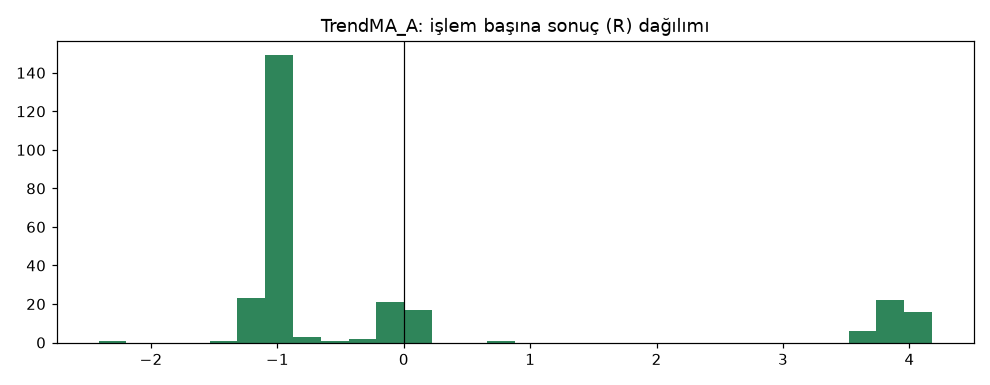
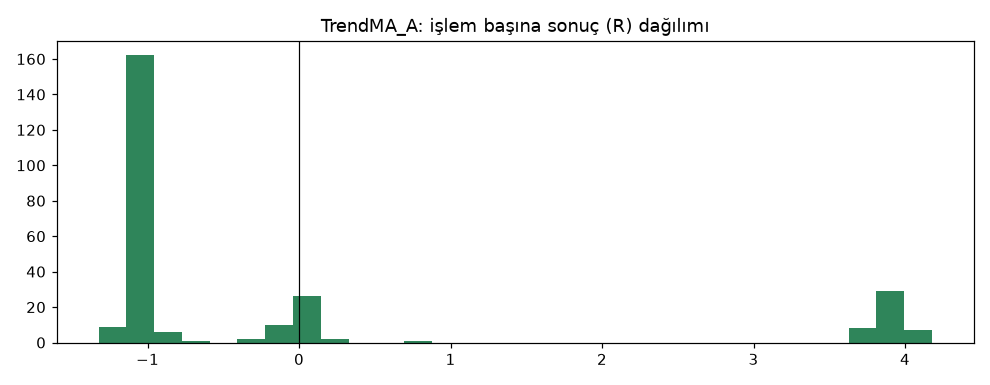
Add donchian_breakout strategy and first A vs B backtest; fix Model A stop
- New card + strategy (20-candle Donchian breakout, 4h, long+short),
  parameters fixed before testing. Lookahead/recursive clean.
- First backtest on development data: B +0.09R/trade, PF 1.10, DD 38%;
  A +0.06R, PF 1.04, DD 42%. Cost x2 still positive for B. Continue to
  TP grid; drawdown above threshold noted.
- Fix custom_stoploss for Model A: max_rate/min_rate is None on the first
  call after the entry fill, which raised and skipped the planned stop for
  that candle. trend_ma report regenerated (decision unchanged).

Claude-Session: https://claude.ai/code/session_01Kuq8t6nqCMXp3Li3RQ1waR

diff --git a/strategies/candidates/donchian_breakout.py b/strategies/candidates/donchian_breakout.py
@@ -1,0 +1,59 @@
+"""
+donchian_breakout: close breaks the previous N-candle high/low (turtle-style breakout).
+Strategy card: cards/donchian_breakout.md (condition ids below must match the card).
+
+Two classes so both TP models can be backtested side by side:
+  DonchianBreakout_B  -> Model B (50% at TP1, stop to break even, rest at TP2)
+  DonchianBreakout_A  -> Model A (single exit at TP2, break even after 2R)
+"""
+
+import sys
+from pathlib import Path
+
+# Make the repo root importable when Freqtrade loads this file directly.
+_REPO_ROOT = Path(__file__).resolve().parents[2]
+if str(_REPO_ROOT) not in sys.path:
+    sys.path.insert(0, str(_REPO_ROOT))
+
+import talib.abstract as ta  # noqa: E402
+from freqtrade.strategy import IntParameter  # noqa: E402
+from pandas import DataFrame  # noqa: E402
+
+from strategies.common.freqtrade_mixin import ManagedStrategy  # noqa: E402
+
+
+class DonchianBreakout_B(ManagedStrategy):
+    timeframe = "4h"
+    tp_model_name = "B"
+
+    # Fixed before the first test; range documented in the card.
+    channel = IntParameter(15, 55, default=20, space="buy", optimize=False)
+    swing_lookback = 10
+    # ATR (Wilder smoothing) drifts 0.03% with 100 candles, ~0% with 300 (recursive-analysis).
+    startup_candle_count = 300
+
+    def populate_indicators(self, df: DataFrame, metadata: dict) -> DataFrame:
+        n = self.channel.value
+        # Channel from the candles BEFORE the signal candle (shift 1): no lookahead,
+        # and the signal candle's own high cannot be part of the level it breaks.
+        df["dc_upper"] = df["high"].rolling(n).max().shift(1)
+        df["dc_lower"] = df["low"].rolling(n).min().shift(1)
+        df["atr"] = ta.ATR(df, timeperiod=14)
+        df["swing_low"] = df["low"].rolling(self.swing_lookback).min()
+        df["swing_high"] = df["high"].rolling(self.swing_lookback).max()
+        return df
+
+    def swing_levels(self, df: DataFrame):
+        return {"long": df["swing_low"], "short": df["swing_high"]}
+
+    def signal_conditions(self, df: DataFrame):
+        above = df["close"] > df["dc_upper"]
+        below = df["close"] < df["dc_lower"]
+        return {
+            "long": {"breakout_up": above & ~above.shift(1, fill_value=False)},
+            "short": {"breakout_down": below & ~below.shift(1, fill_value=False)},
+        }
+
+
+class DonchianBreakout_A(DonchianBreakout_B):
+    tp_model_name = "A"

diff --git a/strategies/common/freqtrade_mixin.py b/strategies/common/freqtrade_mixin.py
@@ -211,6 +211,8 @@ class ManagedStrategy(IStrategy):
             be_active = trade.nr_of_successful_exits >= 1
         else:
             best = trade.min_rate if trade.is_short else trade.max_rate
+            if best is None:  # first call right after the entry fill
+                best = trade.open_rate
             moved_r = (best - trade.open_rate) / risk * (1 if side == "long" else -1)
             be_active = moved_r >= model.breakeven_r
         if be_active:

diff --git a/results/2026-10-04_donchian_breakout_ilk_backtest/rapor.md b/results/2026-10-04_donchian_breakout_ilk_backtest/rapor.md
@@ -1,0 +1,100 @@
+# DonchianBreakout_A vs DonchianBreakout_B — ilk_backtest_gelistirme — 2026-10-04
+
+## Özet
+- **DonchianBreakout_A**: 570 işlem, işlem başına ortalama **0.06R** (maliyet ve funding dahil), net getiri 18.9%, en büyük düşüş 41.6%.
+- **DonchianBreakout_B**: 567 işlem, işlem başına ortalama **0.09R** (maliyet ve funding dahil), net getiri 47.0%, en büyük düşüş 38.4%.
+- Aynı dönemde coinleri al-tut (eşit ağırlık): getiri 3297.6%, ortalama en büyük düşüş 84.1%.
+
+## Ayarlar
+- Dönem: 2020-02-20 00:00:00 → 2025-01-01 00:00:00
+- Coinler: BTC/USDT:USDT, ETH/USDT:USDT, SOL/USDT:USDT, XRP/USDT:USDT, BNB/USDT:USDT, DOGE/USDT:USDT
+- Zaman dilimi: 4h
+- Yön: long + short
+- Mod: futures / isolated
+- Kaldıraç: en fazla 3x, likidasyon stop mesafesinin en az 2 katı uzakta (bölüm 7.6)
+- Risk: işlem başına sermayenin %1'i (pozisyon büyüklüğü stop mesafesine göre)
+- Maliyet: her emir için %0.05 komisyon + %0.05 kayma (= %0.1), funding geçmiş veriden
+- Başlangıç sermayesi: 10000 USDT
+
+## Metrikler
+| Metrik | DonchianBreakout_A | DonchianBreakout_B | Al-tut |
+|---|---|---|---|
+| Net getiri | 18.9% | 47.0% | 3297.6% |
+| Max drawdown | 41.6% | 38.4% | 84.1% |
+| Profit factor | 1.04 | 1.10 | — |
+| Ortalama R | 0.06 | 0.09 | — |
+| İşlem sayısı | 570 | 567 | — |
+| Winrate | 24.6% | 37.9% | — |
+
+Winrate tek başına başarı ölçütü değildir; asıl ölçüt ortalama R (expectancy) ve drawdown'dur.
+
+## Long / short ayrımı
+| Strateji | Yön | İşlem | Ortalama R | Toplam R | Profit factor |
+|---|---|---|---|---|---|
+| DonchianBreakout_A | long | 332 | 0.12 | 40.45 | 1.09 |
+| DonchianBreakout_A | short | 238 | -0.02 | -3.75 | 0.98 |
+| DonchianBreakout_B | long | 330 | 0.14 | 46.70 | 1.14 |
+| DonchianBreakout_B | short | 237 | 0.02 | 5.38 | 1.04 |
+
+## Sinyal istatistikleri
+| Strateji | Stop | BE | TP1 sonrası BE | TP2 | Diğer | İptal (bölgeye gelmedi / önce stop) | Toplam funding (USDT) |
+|---|---|---|---|---|---|---|---|
+| DonchianBreakout_A | 61.9% | 19.1% | 0.0% | 18.4% | 0.5% | 8.8% | -1302.17 |
+| DonchianBreakout_B | 61.7% | 0.0% | 18.7% | 19.0% | 0.5% | 8.8% | -1160.38 |
+
+## Coin bazında
+| Strateji | Coin | İşlem | Ortalama R | Toplam R | Al-tut getirisi |
+|---|---|---|---|---|---|
+| DonchianBreakout_A | BTC/USDT:USDT | 116 | 0.06 | 7.37 | 879.8% |
+| DonchianBreakout_A | ETH/USDT:USDT | 112 | 0.10 | 11.56 | 1184.9% |
+| DonchianBreakout_A | SOL/USDT:USDT | 64 | 0.41 | 25.96 | 5552.9% |
+| DonchianBreakout_A | XRP/USDT:USDT | 104 | -0.20 | -20.86 | 659.5% |
+| DonchianBreakout_A | BNB/USDT:USDT | 102 | -0.02 | -1.99 | 3083.0% |
+| DonchianBreakout_A | DOGE/USDT:USDT | 72 | 0.20 | 14.67 | 8425.3% |
+| DonchianBreakout_B | BTC/USDT:USDT | 115 | 0.09 | 10.10 | 879.8% |
+| DonchianBreakout_B | ETH/USDT:USDT | 111 | 0.11 | 12.50 | 1184.9% |
+| DonchianBreakout_B | SOL/USDT:USDT | 62 | 0.40 | 24.50 | 5552.9% |
+| DonchianBreakout_B | XRP/USDT:USDT | 103 | -0.09 | -9.54 | 659.5% |
+| DonchianBreakout_B | BNB/USDT:USDT | 102 | -0.01 | -0.58 | 3083.0% |
+| DonchianBreakout_B | DOGE/USDT:USDT | 74 | 0.20 | 15.09 | 8425.3% |
+
+## Grafikler
+![DonchianBreakout_A_sermaye.png](DonchianBreakout_A_sermaye.png)
+![DonchianBreakout_A_R_dagilimi.png](DonchianBreakout_A_R_dagilimi.png)
+![DonchianBreakout_B_sermaye.png](DonchianBreakout_B_sermaye.png)
+![DonchianBreakout_B_R_dagilimi.png](DonchianBreakout_B_R_dagilimi.png)
+
+## Veri ve dönem
+- Veri: Binance USDⓈ-M arşivi (data.binance.vision). Doğrulama: [`research/data/validation_report.md`](../../research/data/validation_report.md).
+- Sadece **geliştirme dönemi** (2020-01-01 → 2024-12-31). Doğrulama ve kasa verisine dokunulmadı.
+- Parametreler (kanal 20, 4h) test öncesi kartta sabitlendi; bu sonuca göre değiştirilmedi.
+- Hile testi: `lookahead-analysis` 60 sinyalde bias bulmadı; `recursive-analysis` 300 mum ısınmada ATR sapması ~%0.
+
+## Yıllara göre toplam R (DonchianBreakout_B)
+| Yıl | Long işlem | Long R | Short işlem | Short R |
+|---|---|---|---|---|
+| 2020 | 56 | +31.3 | 28 | -9.5 |
+| 2021 | 57 | +1.8 | 26 | +12.2 |
+| 2022 | 69 | -21.9 | 79 | +2.2 |
+| 2023 | 73 | +21.5 | 50 | -4.8 |
+| 2024 | 75 | +13.9 | 54 | +5.4 |
+
+## Maliyet x2 testi (emir başına %0.2)
+| | Ortalama R | Net getiri | Max drawdown | Profit factor |
+|---|---|---|---|---|
+| DonchianBreakout_A | +0.03 | -3.2% | 44.7% | 0.99 |
+| DonchianBreakout_B | +0.05 | +18.3% | 41.7% | 1.04 |
+
+## Yorum: güçlü yanlar / şüpheli noktalar
+- **Pozitif beklenti:** maliyet ve funding sonrası işlem başına +0.06R (A) ve +0.09R (B). trend_ma'nın aksine sıfırın üstünde.
+- **Long tarafı taşıyor:** B'de long +46.7R, 5 yılın 4'ünde pozitif (sadece 2022 düşüş yılında -21.9R). Short neredeyse başa baş (+5.4R).
+- **Coinlerin çoğunda pozitif:** B'de 6 coinin 4'ü pozitif (BTC, ETH, SOL, DOGE); XRP ve BNB negatif. Kârın büyük kısmı SOL ve DOGE'den (+39.6R), yani birkaç büyük trende bağımlı.
+- **Drawdown çok büyük:** %38-42 (eşik ≤ %25). En büyük sorun bu. Aynı anda 5 işleme kadar açılabildiği ve coinler birlikte hareket ettiği için kayıplar üst üste biniyor.
+- **Kâr faktörü zayıf:** 1.04-1.10. Doğrulama eşiği ≥ 1.2.
+- **Maliyete hassas:** maliyet iki katına çıkınca B hâlâ pozitif (+0.05R) ama A başa baş (PF 0.99). "Kırılgan" sayılır.
+- **Model A vs B:** B her ölçüde daha iyi (ortalama R, getiri, drawdown, maliyete dayanıklılık).
+- **Funding yükü:** B'de toplam -1160 USDT; trend takibinde long tarafı çoğunlukla funding ödüyor.
+- Al-tut çok daha yüksek getiri yaptı (+%3298) ama %84 düşüşle.
+
+## Karar: devam / düzelt / emekli
+**Devam (dikkatle).** İlk backtest'in temel şartı olan pozitif beklentiyi sağladı ve işlem sayısı, coin oranı yeterli. Ama drawdown ve kâr faktörü active olmak için gereken eşiklerin altında; bu yüzden umut verici ama henüz yeterli değil. Sıradaki aşama: sadece geliştirme verisinde TP model ızgarası (aşama 3), sonra doğrulama verisi (aşama 4). Drawdown aşama 4'te de %25'in üstündeyse strateji ya volatilite/trend filtresiyle **yeni bir kart** olarak denenir ya da emekli edilir; bu kartın parametreleri değiştirilmez.

diff --git a/cards/donchian_breakout.md b/cards/donchian_breakout.md
@@ -1,0 +1,59 @@
+# donchian_breakout — Donchian kanalı kırılımı
+
+Kod: [`strategies/candidates/donchian_breakout.py`](../strategies/candidates/donchian_breakout.py) (`DonchianBreakout_B` = Model B, `DonchianBreakout_A` = Model A)
+
+## Hipotez
+Fiyat uzun süredir gidemediği bir seviyeyi (son 20 mumun en yükseği veya en düşüğü) kapanışla geçtiğinde, yeni bir hareket başlıyor olabilir. Bu klasik "kaplumbağa" (turtle) kırılım fikridir: büyük trendler hep bir kırılımla başlar, yanlış kırılımlarda küçük kayıp, gerçeklerinde büyük kazanç beklenir. trend_ma'dan farkı: ortalamalara değil, doğrudan fiyat seviyesine bakar ve trend filtresi kullanmaz.
+
+## Yön
+İkisi de (long ve short simetrik). Long ve short sonuçları ayrı raporlanır.
+
+## Giriş koşulları
+
+**Long** (hepsi aynı anda doğru olmalı):
+- [breakout_up] Teknik: `close > max(high, önceki 20 mum)` ve bir önceki mumda bu koşul yoktu (ilk kırılım) | Açıklama: "{tf} fiyat ({close}) son 20 mumun en yükseğini ({dc_upper}) kapanışla yukarı kırdı."
+
+**Short** (hepsi aynı anda doğru olmalı):
+- [breakout_down] Teknik: `close < min(low, önceki 20 mum)` ve bir önceki mumda bu koşul yoktu (ilk kırılım) | Açıklama: "{tf} fiyat ({close}) son 20 mumun en düşüğünü ({dc_lower}) kapanışla aşağı kırdı."
+
+## Neye bakıyor? (bildiği şeyler)
+- Sadece kapanmış mumların fiyatı (açılış, en yüksek, en düşük, kapanış)
+- Donchian kanalı: sinyal mumundan **önceki** 20 mumun en yükseği / en düşüğü
+- ATR(14) (stop ve giriş bölgesi için), son 10 mumun en düşük / en yüksek seviyesi (yapısal stop için)
+- Bilmedikleri: trend yönü, hacim, funding, haber, diğer coinler.
+
+## İşlem yönetimi
+- **Giriş bölgesi:** Sinyal mumunun kapanışı ile kapanış ∓ 0.25 ATR arası. Backtest'te emir bölgenin ortasına limit.
+- **Stop:** 1.5 ATR stop ile yapısal stop (long: son 10 mumun dibi − 0.1 ATR; short: son 10 mumun tepesi + 0.1 ATR) arasından **daha geniş** olanı. Stop fiyatın %8'inden uzaksa sinyal üretilmez.
+- **TP modeli:** İkisi de test edilir. Model B: TP1 = 2R'de %50 kapat, stop girişe; TP2 = 4R. Model A: tamamı 4R'de, 2R'ye gelince stop girişe.
+- **Sinyal geçerlilik süresi:** 3 mum.
+- **Kaldıraç:** en fazla 3x, likidasyon stop mesafesinin en az 2 katı uzakta.
+
+(Hepsi ortak modülden, trend_ma ile aynı.)
+
+## Zaman dilimi ve parametreler
+Parametreler test öncesi sabitlendi, geliştirme sonucuna göre değiştirilmeyecek.
+
+| Parametre | Değer | Makul aralık |
+|---|---|---|
+| Zaman dilimi | 4h | 1h, 4h |
+| Kanal uzunluğu | 20 mum | 15-55 |
+| ATR periyodu | 14 | sabit |
+| Yapısal stop bakışı | 10 mum | sabit |
+| Isınma (startup) | 300 mum | ATR sapması ~%0 (recursive-analysis) |
+
+## Durum: candidate
+
+## Test geçmişi
+| Tarih | Test | Sonuç özeti | Rapor linki |
+|---|---|---|---|
+| 2026-10-04 | Lookahead + recursive (4h) | 60 sinyalde bias yok; ATR için 300 mum ısınma. | — |
+| 2026-10-04 | İlk backtest, A vs B (geliştirme 2020-02 → 2024-12, 6 coin) | A: +0.06R/işlem, PF 1.04, DD %41.6. B: +0.09R/işlem, PF 1.10, DD %38.4. Long taşıyor (+46.7R), short ~0. Maliyet x2'de B +0.05R. Pozitif ama DD eşiğin çok üstünde. | [results/2026-10-04_donchian_breakout_ilk_backtest](../results/2026-10-04_donchian_breakout_ilk_backtest/rapor.md) |
+
+## Notlar / öğrenilenler
+- Kârın büyük kısmı SOL ve DOGE'nin büyük trendlerinden; XRP ve BNB negatif.
+- En büyük sorun drawdown: aynı anda açık işlemler birlikte kaybediyor.
+- Model B, A'dan her ölçüde iyi.
+
+## Emeklilik gerekçesi (varsa)
+—

diff --git a/results/2026-10-04_trend_ma_ilk_backtest/rapor.md b/results/2026-10-04_trend_ma_ilk_backtest/rapor.md
@@ -1,7 +1,7 @@
 # TrendMA_A vs TrendMA_B — ilk_backtest_gelistirme — 2026-10-04
 
 ## Özet
-- **TrendMA_A**: 263 işlem, işlem başına ortalama **-0.06R** (maliyet ve funding dahil), net getiri -19.5%, en büyük düşüş 47.3%.
+- **TrendMA_A**: 263 işlem, işlem başına ortalama **-0.06R** (maliyet ve funding dahil), net getiri -18.6%, en büyük düşüş 46.7%.
 - **TrendMA_B**: 264 işlem, işlem başına ortalama **-0.06R** (maliyet ve funding dahil), net getiri -17.2%, en büyük düşüş 43.4%.
 - Aynı dönemde coinleri al-tut (eşit ağırlık): getiri 3572.8%, ortalama en büyük düşüş 84.1%.
 
@@ -19,8 +19,8 @@
 ## Metrikler
 | Metrik | TrendMA_A | TrendMA_B | Al-tut |
 |---|---|---|---|
-| Net getiri | -19.5% | -17.2% | 3572.8% |
-| Max drawdown | 47.3% | 43.4% | 84.1% |
+| Net getiri | -18.6% | -17.2% | 3572.8% |
+| Max drawdown | 46.7% | 43.4% | 84.1% |
 | Profit factor | 0.91 | 0.92 | — |
 | Ortalama R | -0.06 | -0.06 | — |
 | İşlem sayısı | 263 | 264 | — |
@@ -31,7 +31,7 @@ Winrate tek başına başarı ölçütü değildir; asıl ölçüt ortalama R (e
 ## Long / short ayrımı
 | Strateji | Yön | İşlem | Ortalama R | Toplam R | Profit factor |
 |---|---|---|---|---|---|
-| TrendMA_A | long | 129 | -0.20 | -25.78 | 0.72 |
+| TrendMA_A | long | 129 | -0.19 | -24.32 | 0.73 |
 | TrendMA_A | short | 134 | 0.07 | 8.85 | 1.11 |
 | TrendMA_B | long | 130 | -0.21 | -27.51 | 0.70 |
 | TrendMA_B | short | 134 | 0.09 | 12.28 | 1.15 |
@@ -39,7 +39,7 @@ Winrate tek başına başarı ölçütü değildir; asıl ölçüt ortalama R (e
 ## Sinyal istatistikleri
 | Strateji | Stop | BE | TP1 sonrası BE | TP2 | Diğer | İptal (bölgeye gelmedi / önce stop) | Toplam funding (USDT) |
 |---|---|---|---|---|---|---|---|
-| TrendMA_A | 66.9% | 16.0% | 0.0% | 16.7% | 0.4% | 9.0% | -449.49 |
+| TrendMA_A | 67.3% | 15.6% | 0.0% | 16.7% | 0.4% | 9.0% | -450.07 |
 | TrendMA_B | 67.0% | 0.0% | 15.5% | 17.0% | 0.4% | 9.0% | -355.66 |
 
 ## Coin bazında
@@ -49,7 +49,7 @@ Winrate tek başına başarı ölçütü değildir; asıl ölçüt ortalama R (e
 | TrendMA_A | ETH/USDT:USDT | 45 | -0.14 | -6.51 | 1343.7% |
 | TrendMA_A | SOL/USDT:USDT | 29 | -0.14 | -3.94 | 5552.9% |
 | TrendMA_A | XRP/USDT:USDT | 55 | -0.19 | -10.34 | 1003.8% |
-| TrendMA_A | BNB/USDT:USDT | 52 | 0.26 | 13.54 | 4214.2% |
+| TrendMA_A | BNB/USDT:USDT | 52 | 0.29 | 15.01 | 4214.2% |
 | TrendMA_A | DOGE/USDT:USDT | 36 | -0.16 | -5.76 | 8425.3% |
 | TrendMA_B | BTC/USDT:USDT | 46 | 0.00 | 0.10 | 896.7% |
 | TrendMA_B | ETH/USDT:USDT | 45 | -0.17 | -7.43 | 1343.7% |
@@ -85,7 +85,7 @@ Winrate tek başına başarı ölçütü değildir; asıl ölçüt ortalama R (e
 - **Drawdown çok büyük:** %43-47 (eşik ≤ %25).
 - **Sadece belli bir dönemde çalışmış:** 2020 ortasından 2022 ortasına kadar sermaye 10.000 → 14.600 USDT oldu, sonraki 2.5 yılda hepsini ve fazlasını geri verdi. 2023-2024'te hem long hem short zararda.
 - **Short tarafı "iyi" görünüyor ama güvenilmez:** short kârının tamamı 2021-2022 düşüş piyasasından geliyor; 2023-2024'te short da zararda. Sadece short'u bırakmak sonuca bakıp seçim yapmak olur (aşırı uyum riski).
-- **Model A vs B:** B biraz daha iyi (net -17.2% vs -19.5%, drawdown 43% vs 47%), fark küçük. Strateji eşikleri geçmediği için TP model seçimi aşamasına geçilmedi.
+- **Model A vs B:** B biraz daha iyi (net -17.2% vs -18.6%, drawdown 43% vs 47%), fark küçük. Strateji eşikleri geçmediği için TP model seçimi aşamasına geçilmedi.
 - Al-tut aynı dönemde +%3573 (ama %84 düşüşle). Strateji bunun çok gerisinde.
 
 ## Karar: devam / düzelt / emekli

diff --git a/journal/2026-10-04.md b/journal/2026-10-04.md
@@ -47,7 +47,7 @@
 
 ### Bulgular (rakamlarla)
 - Lookahead: 60 sinyalde bias yok. Recursive: 1000 mum ısınmada EMA200 sapması %0.000 (200 mumda %1.18).
-- İlk backtest (geliştirme, 2020-06-15 → 2024-12-31): A 263 işlem, -0.06R/işlem, PF 0.91, DD %47.3; B 264 işlem, -0.06R/işlem, PF 0.92, DD %43.4. Al-tut +%3573 (DD %84).
+- İlk backtest (geliştirme, 2020-06-15 → 2024-12-31): A 263 işlem, -0.06R/işlem, PF 0.91, DD %46.7 (ortak modül düzeltmesi sonrası); B 264 işlem, -0.06R/işlem, PF 0.92, DD %43.4. Al-tut +%3573 (DD %84).
 - Long zararda (B: -27.5R), short hafif kârda (B: +12.3R) ama short kârı 2021-2022'den; 2023-2024'te iki yön de zararda.
 - Stop ortalama -1.05R, TP2 ortalama +3.9R: işlem yönetimi ve R hesabı gerçek veride beklendiği gibi.
 
@@ -58,4 +58,25 @@
 - Tick/lot değerleri API'den doğrulanamadı (451); sadece yuvarlamayı etkiliyor.
 
 ### Sıradaki adım
-- Donchian kırılımı stratejisi (Seviye 1 ailesinden ikinci).
+- (Aşağıda yapıldı.)
+
+---
+
+## Devam (üçüncü bölüm): donchian_breakout
+
+### Yapılanlar
+- Kart (`cards/donchian_breakout.md`) yazıldı ve parametreler test öncesi sabitlendi; kod `strategies/candidates/donchian_breakout.py`.
+- Ortak modül hatası düzeltildi: Model A'da `custom_stoploss` girişten hemen sonraki ilk çağrıda `trade.max_rate/min_rate` boş olduğu için hata veriyordu (her işlemde bir kez); o an planlanan stop kurulmuyordu. trend_ma raporu düzeltmeyle yeniden üretildi (A: -19.5% → -18.6%, karar değişmedi).
+- Lookahead + recursive, A vs B ilk backtest, maliyet x2 testi, rapor.
+
+### Bulgular (rakamlarla)
+- Lookahead: 60 sinyalde bias yok. Recursive: ATR 100 mumda %0.03, 300 mumda ~%0 → startup 300.
+- İlk backtest (2020-02-20 → 2024-12-31): A 570 işlem, +0.06R, PF 1.04, DD %41.6; B 567 işlem, +0.09R, PF 1.10, DD %38.4.
+- B long +46.7R (2022 hariç her yıl pozitif), short +5.4R. 6 coinin 4'ü pozitif; SOL+DOGE toplam +39.6R.
+- Maliyet x2: B +0.05R, PF 1.04; A +0.03R, PF 0.99.
+
+### Açık sorular
+- Drawdown (%38) nasıl düşer? Bu kartta parametre değiştirilmeyecek; gerekirse filtreli yeni kart.
+
+### Sıradaki adım
+- donchian_breakout için aşama 3: TP model ızgarası (sadece geliştirme verisi), sonra aşama 4 doğrulama.

diff --git a/docs/decisions.md b/docs/decisions.md
@@ -2,6 +2,14 @@
 
 Her karar: tarih + karar + gerekçe. En yeni en üstte.
 
+## 2026-10-04 — donchian_breakout ilk backtest: devam
+- **Karar:** Aşama 3'e (TP model ızgarası, geliştirme verisi) devam.
+- **Gerekçe:** Maliyet ve funding sonrası beklenti pozitif (B: +0.09R, 567 işlem, 6 coinin 4'ü pozitif). Drawdown (%38) ve PF (1.10) active eşiklerinin altında; aşama 4'te de böyle kalırsa bu kart değiştirilmez, filtreli yeni kart açılır veya emekli edilir. Rapor: `results/2026-10-04_donchian_breakout_ilk_backtest/rapor.md`.
+
+## 2026-10-04 — Ortak modül düzeltmesi (Model A break even kontrolü)
+- **Durum:** Model A'da girişten hemen sonraki ilk `custom_stoploss` çağrısında `max_rate/min_rate` henüz boştu ve hata veriyordu; o mumda planlanan stop kurulmuyordu.
+- **Karar:** Boşsa giriş fiyatı kullanılıyor. trend_ma raporu yeniden üretildi (A net -19.5% → -18.6%); emeklilik kararı değişmedi. Model B etkilenmedi.
+
 ## 2026-10-04 — trend_ma emekliye ayrıldı
 - **Karar (proje sahibi onayladı):** `trend_ma` emekliye ayrıldı (`strategies/retired/`), Seviye 1'deki diğer strateji ailelerine geçiliyor.
 - **Gerekçe:** Geliştirme döneminde (2020-06 → 2024-12, 6 coin) iki TP modelinde de işlem başına -0.06R, profit factor 0.91-0.92, drawdown %43-47. Eşikler: PF ≥ 1.2, DD ≤ %25. Parametre veya yön ayarı geliştirme verisine uydurma olurdu. Rapor: `results/2026-10-04_trend_ma_ilk_backtest/rapor.md`.

diff --git a/cards/trend_ma.md b/cards/trend_ma.md
@@ -49,7 +49,7 @@ Fiyat güçlü bir yöne gittiğinde (trend), bir süre o yönde gitmeye devam e
 |---|---|---|---|
 | 2026-10-04 | Boru hattı testi (**sentetik veri**) | Kod uçtan uca çalışıyor; lookahead yok. Rakamlar anlamsız (rastgele veri). | [tests/smoke/ornek_rapor_SENTETIK](../tests/smoke/ornek_rapor_SENTETIK/rapor.md) |
 | 2026-10-04 | Lookahead + recursive (gerçek veri, 4h) | 60 sinyalde bias yok; 1000 mum ısınma yeterli (EMA200 sapması %0). | — |
-| 2026-10-04 | İlk backtest, A vs B (gerçek veri, geliştirme 2020-06 → 2024-12, 6 coin) | A: -0.06R/işlem, PF 0.91, DD %47. B: -0.06R/işlem, PF 0.92, DD %43. 2020-2022 kârlı, 2023-2024 long ve short zararda. Eşikleri geçmedi. | [results/2026-10-04_trend_ma_ilk_backtest](../results/2026-10-04_trend_ma_ilk_backtest/rapor.md) |
+| 2026-10-04 | İlk backtest, A vs B (gerçek veri, geliştirme 2020-06 → 2024-12, 6 coin) | A: -0.06R/işlem, PF 0.91, DD %47 (stop düzeltmesi sonrası -18.6%, DD %46.7). B: -0.06R/işlem, PF 0.92, DD %43. 2020-2022 kârlı, 2023-2024 long ve short zararda. Eşikleri geçmedi. | [results/2026-10-04_trend_ma_ilk_backtest](../results/2026-10-04_trend_ma_ilk_backtest/rapor.md) |
 
 ## Notlar / öğrenilenler
 - `recursive-analysis`: EMA200 için 250 mumluk ısınma yetersizdi (~%2 sapma), 1000'e çıkarıldı.

diff --git a/docs/roadmap.md b/docs/roadmap.md
@@ -46,5 +46,6 @@ Seviye 0 çıkış şartı sağlandı (2026-10-04).
 **Çıkış şartı:** Her giriş sinyali tasarıma uygun görselle birkaç saniye içinde geliyor.
 
 ## Sıradaki adım
-1. Seviye 1 strateji ailesinden sıradaki: Donchian kırılımı (kart → kod → lookahead/recursive → ilk backtest A vs B).
-2. Seviye 1 coin listesini son 90 günlük hacimle kontrol et (arşivdeki hacim verisiyle).
+1. `donchian_breakout` (ilk backtest pozitif, DD yüksek): aşama 3 TP model ızgarası (geliştirme verisi), sonra aşama 4 doğrulama.
+2. Seviye 1 ailesinden sıradakiler: RSI ortalamaya dönüş, ATR filtreli versiyonlar.
+3. Seviye 1 coin listesini son 90 günlük hacimle kontrol et (arşivdeki hacim verisiyle).
